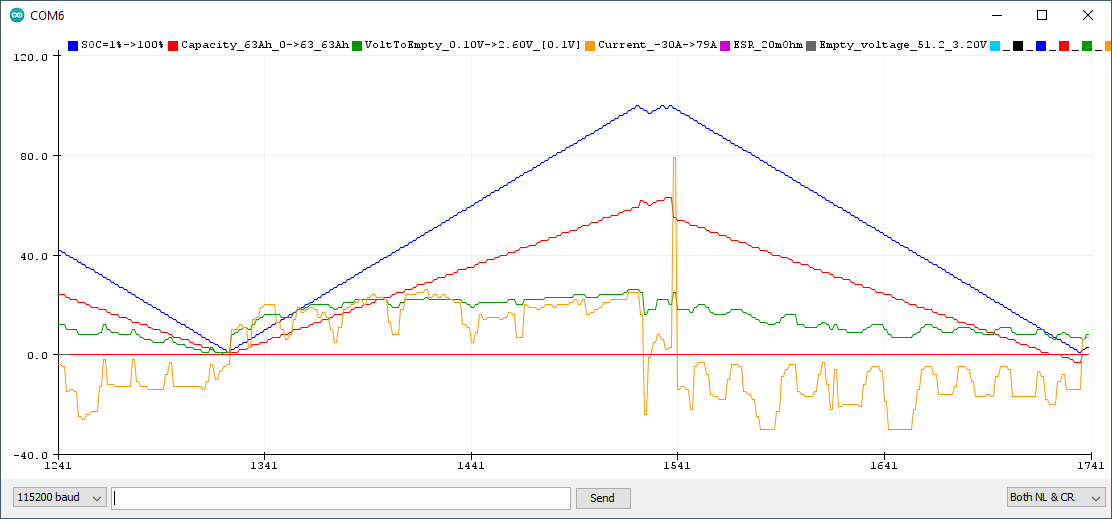
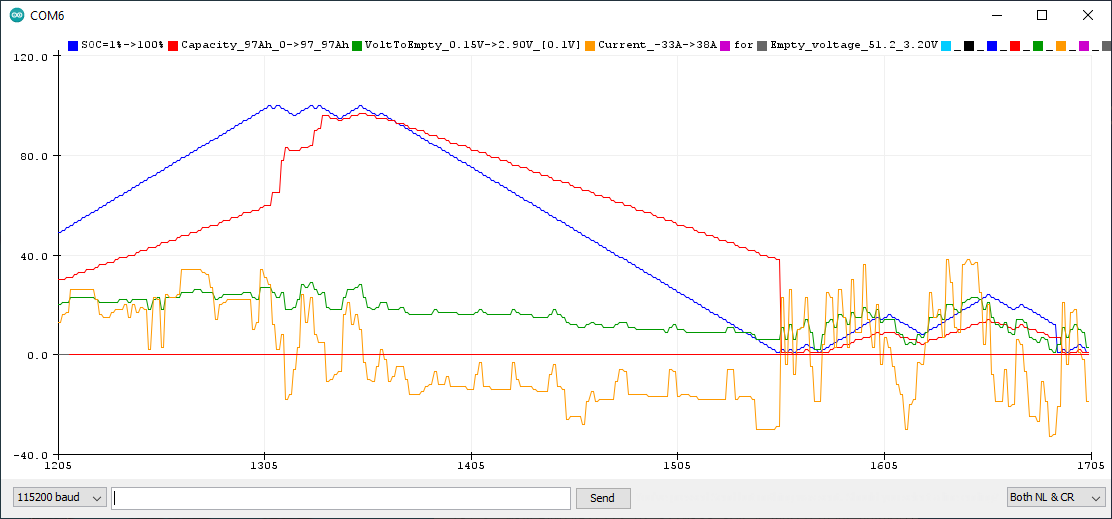
Documentation

diff --git a/README.md b/README.md
@@ -61,13 +61,18 @@ If CAN communications breaks, the inverter may use different values for controll
 # SOC graph for a 16S LiFePO4 battery
 Created by attaching Arduio 1.8 Serial Plotter and then doing a long button press followed by a single one to enter the capacity info page.<br/>
 
-Here you see a peak at the transition from 100 % to 99 %. This happens at the start of the system, when there was no full 0% to 100% capacity cycle
-and the BMS has not yet learned the correct capacity for 100%. The new 99 % learned by the BMS is bigger than the old 100 %!<br/>
-The capacity drop is due to a (fixed!) overflow problem.<br/>
-The voltage line is smooth, because it is corrected with the ESR (Equivalent Series Resistance) of the Battery.
+Here you see a steep capacity increasing at the transition from 100 % to 99 %. 
+This happens at the start of the system, when there was no full 0% to 100% capacity cycle and the BMS has not yet learned the correct capacity for 100%.
+The new 99 % represents a bigger capacity than the old 100 %.
+But my BMS does not learned this and starts again with the old settings.<br/>
+Because the capacity is around 100 Ah, the gradient of the capacity and the SOC line should be almost identical, at least after a full 100% to 0% cycle :-(.
+
+Here the current is not negative for 99%, because it is the average of the current above 100% -increasing the capacity- and the negative current delivered for the step from 100% to 99%.
+
+The voltage line is smooth, because it is corrected with the ESR (Equivalent Series Resistance) of the battery.
 ![SOC graph](https://github.com/ArminJo/JK-BMSToPylontechCAN/blob/main/extras/SOCDataESR.png)
 
-The same (raw) data without the ESR correction.
+The same (raw) data without ESR correction of voltage.
 ![SOC graph](https://github.com/ArminJo/JK-BMSToPylontechCAN/blob/main/extras/SOCDataNoESR.png)
 
 
